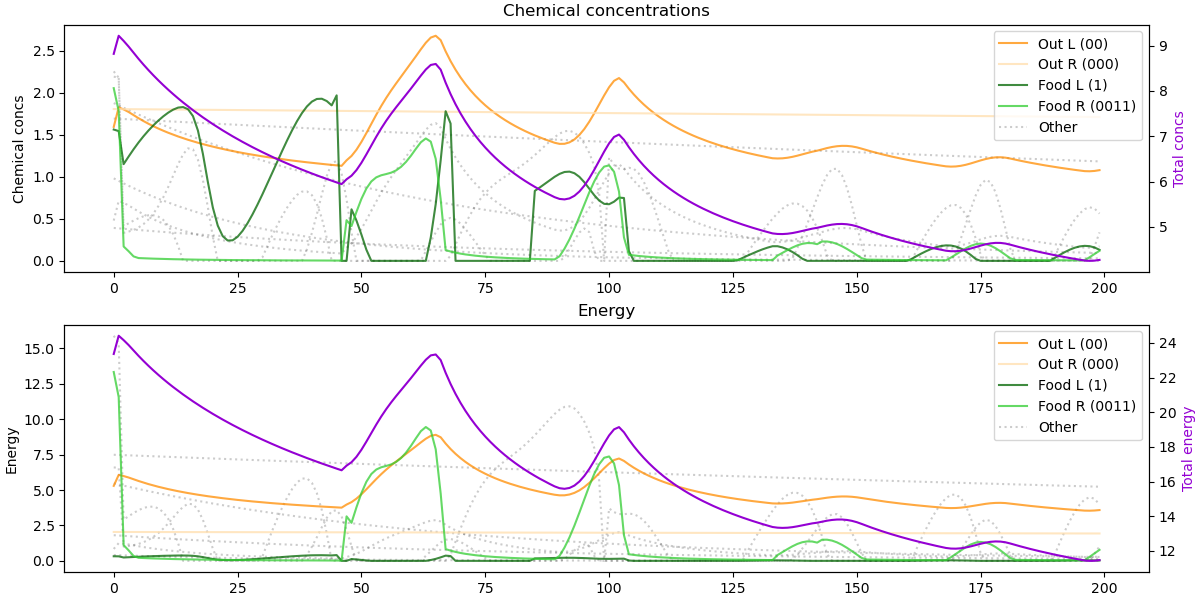
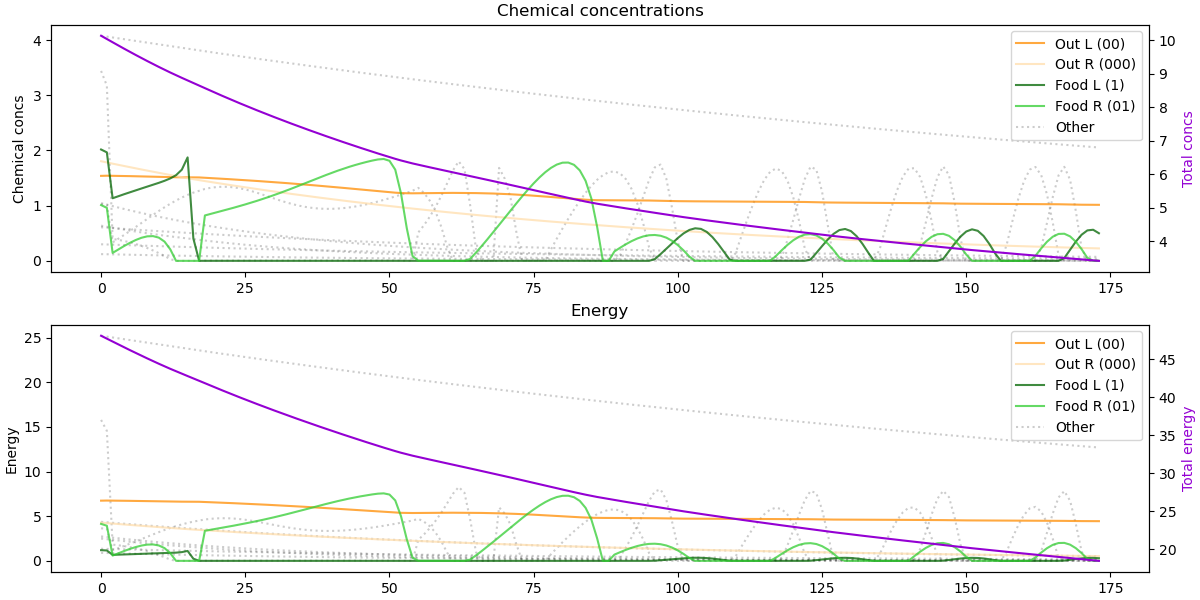
food and water wip

diff --git a/diem/Animat.py b/diem/Animat.py
@@ -129,16 +129,16 @@ class Animat:
           self.battery[type.value] = Animat.FULL_BATTERY
         else:
           self.battery = [0, 0]
-    if not encountered:
-      self.battery = [max(0, bat - Animat.DRAIN_RATE*DT) for bat in self.battery]
+      else:
+        self.battery[type.value] -= Animat.DRAIN_RATE*DT
     # update battery and env
-    self.fitness += sum(self.battery) * DT * 10
+    self.fitness += np.prod(self.battery) * DT * 10
     for type in ConsumableTypes:
       self.battery_hist[type.value].append(self.battery[type.value])
 
     # TODO toggle dual battery
-    # if any(b <= 0 for b in self.battery):
-    if sum(self.battery) <= 0:
+    if any(b <= 0 for b in self.battery):
+    # if sum(self.battery) <= 0:
       self.alive = False
 
 

diff --git a/diem/__main__.py b/diem/__main__.py
@@ -6,7 +6,7 @@ from Animat import test_animat_trial
 if __name__ == '__main__':
 
   BATCHES = 1
-  BATCH_SIZE = 300
+  BATCH_SIZE = 1000
 
   highest_fitness = 0
   pop = Population()
